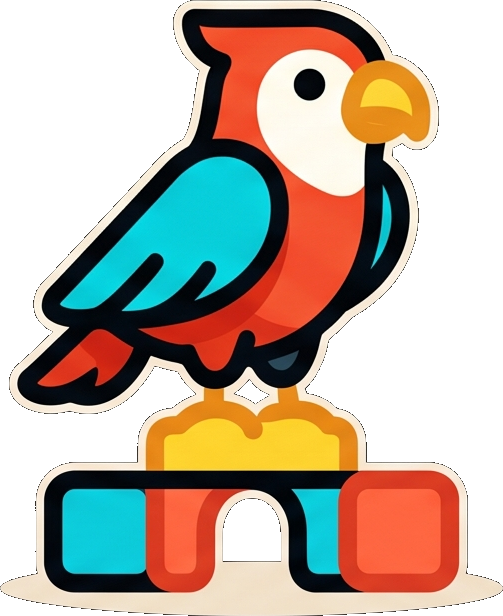
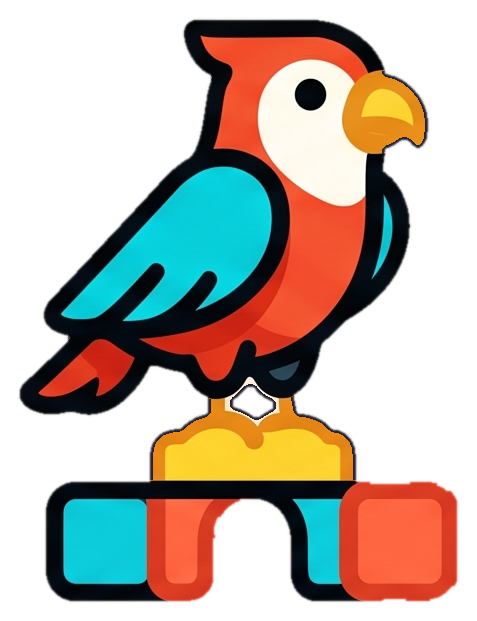
Studio logosu temizlendi: bej etiket cercevesi, pismis golge ve sert kenar kaldirildi; img boyutlari 477x621
Kaynak assets/hawk-mason-logo-transparent.png'den papagan kesildi, dis kontur disi krem/ten pikseller
silindi, kenar yumusatildi. Ayni dosya adlari (mark.png/webp) kullanildigi icin tum sayfalar ve
nav/footer markasi birlikte guncellendi; HENUZ DEPLOY EDILMEDI.

diff --git a/index.html b/index.html
@@ -73,7 +73,7 @@
 
     <header class="nav" data-nav>
       <a class="brand" href="/" aria-label="Hawk & Mason Studios home">
-        <img class="brand-mark" src="assets/hawk-mason-mark.webp" alt="" width="503" height="616" />
+        <img class="brand-mark" src="assets/hawk-mason-mark.webp" alt="" width="477" height="621" />
         <span class="brand-name">Hawk <span class="amp">&amp;</span> Mason<span class="brand-suffix">Studios</span></span>
       </a>
       <nav class="nav-links" aria-label="Primary">
@@ -112,7 +112,7 @@
           </ul>
         </div>
         <div class="hero-art" aria-hidden="true">
-          <img class="hero-mark" src="assets/hawk-mason-mark.webp" alt="" width="503" height="616" fetchpriority="high" />
+          <img class="hero-mark" src="assets/hawk-mason-mark.webp" alt="" width="477" height="621" fetchpriority="high" />
         </div>
       </section>
 
@@ -225,7 +225,7 @@
 
     <footer class="foot" id="contact">
       <div class="foot-brand">
-        <img class="brand-mark" src="assets/hawk-mason-mark.webp" alt="" width="503" height="616" loading="lazy" />
+        <img class="brand-mark" src="assets/hawk-mason-mark.webp" alt="" width="477" height="621" loading="lazy" />
         <span class="brand-name">Hawk <span class="amp">&amp;</span> Mason Studios</span>
       </div>
       <nav class="foot-links" aria-label="Footer">

diff --git a/crewops-api.html b/crewops-api.html
@@ -111,7 +111,7 @@
     <header class="nav nav--crew" data-nav>
       <a class="brand" href="/crewops/airlines" data-back data-veil="#070c15" aria-label="Back to the Crewops Aviation Platform">
         <span class="back-arrow" aria-hidden="true">←</span>
-        <img class="brand-mark" src="/assets/hawk-mason-mark.webp" alt="" width="503" height="616" />
+        <img class="brand-mark" src="/assets/hawk-mason-mark.webp" alt="" width="477" height="621" />
         <span class="brand-name">Hawk <span class="amp">&amp;</span> Mason</span>
       </a>
       <div class="nav-store">
@@ -635,7 +635,7 @@ def crewops_hook():
 
     <footer class="foot" style="border-top: 1px solid var(--w-line);">
       <div class="foot-brand">
-        <img class="brand-mark" src="/assets/hawk-mason-mark.webp" alt="" width="503" height="616" />
+        <img class="brand-mark" src="/assets/hawk-mason-mark.webp" alt="" width="477" height="621" />
         <span class="brand-name">Hawk <span class="amp">&amp;</span> Mason Studios</span>
       </div>
       <nav class="foot-links" aria-label="Footer">

diff --git a/crewops-academy.html b/crewops-academy.html
@@ -140,7 +140,7 @@
     <header class="nav nav--crew" data-nav>
       <a class="brand" href="/crewops/airlines" data-back data-veil="#070c15" aria-label="Back to the Crewops Aviation Platform">
         <span class="back-arrow" aria-hidden="true">←</span>
-        <img class="brand-mark" src="/assets/hawk-mason-mark.webp" alt="" width="503" height="616" />
+        <img class="brand-mark" src="/assets/hawk-mason-mark.webp" alt="" width="477" height="621" />
         <span class="brand-name">Hawk <span class="amp">&amp;</span> Mason</span>
       </a>
       <div class="nav-store">
@@ -252,7 +252,7 @@
 
     <footer class="foot" style="border-top: 1px solid var(--w-line);">
       <div class="foot-brand">
-        <img class="brand-mark" src="/assets/hawk-mason-mark.webp" alt="" width="503" height="616" />
+        <img class="brand-mark" src="/assets/hawk-mason-mark.webp" alt="" width="477" height="621" />
         <span class="brand-name">Hawk <span class="amp">&amp;</span> Mason Studios</span>
       </div>
       <nav class="foot-links" aria-label="Footer">

diff --git a/crewops-faq.html b/crewops-faq.html
@@ -321,7 +321,7 @@
     <header class="nav nav--crew" data-nav>
       <a class="brand" href="/crewops/airlines" data-back data-veil="#070c15" aria-label="Back to the Crewops Aviation Platform">
         <span class="back-arrow" aria-hidden="true">←</span>
-        <img class="brand-mark" src="/assets/hawk-mason-mark.webp" alt="" width="503" height="616" />
+        <img class="brand-mark" src="/assets/hawk-mason-mark.webp" alt="" width="477" height="621" />
         <span class="brand-name">Hawk <span class="amp">&amp;</span> Mason</span>
       </a>
       <div class="nav-store">
@@ -490,7 +490,7 @@
 
     <footer class="foot" style="border-top: 1px solid var(--w-line);">
       <div class="foot-brand">
-        <img class="brand-mark" src="/assets/hawk-mason-mark.webp" alt="" width="503" height="616" />
+        <img class="brand-mark" src="/assets/hawk-mason-mark.webp" alt="" width="477" height="621" />
         <span class="brand-name">Hawk <span class="amp">&amp;</span> Mason Studios</span>
       </div>
       <nav class="foot-links" aria-label="Footer">

diff --git a/crewops-insight-product.html b/crewops-insight-product.html
@@ -140,7 +140,7 @@
     <header class="nav nav--crew" data-nav>
       <a class="brand" href="/crewops/airlines" data-back data-veil="#070c15" aria-label="Back to the Crewops Aviation Platform">
         <span class="back-arrow" aria-hidden="true">←</span>
-        <img class="brand-mark" src="/assets/hawk-mason-mark.webp" alt="" width="503" height="616" />
+        <img class="brand-mark" src="/assets/hawk-mason-mark.webp" alt="" width="477" height="621" />
         <span class="brand-name">Hawk <span class="amp">&amp;</span> Mason</span>
       </a>
       <div class="nav-store">
@@ -259,7 +259,7 @@
 
     <footer class="foot" style="border-top: 1px solid var(--w-line);">
       <div class="foot-brand">
-        <img class="brand-mark" src="/assets/hawk-mason-mark.webp" alt="" width="503" height="616" />
+        <img class="brand-mark" src="/assets/hawk-mason-mark.webp" alt="" width="477" height="621" />
         <span class="brand-name">Hawk <span class="amp">&amp;</span> Mason Studios</span>
       </div>
       <nav class="foot-links" aria-label="Footer">

diff --git a/crewops-library.html b/crewops-library.html
@@ -140,7 +140,7 @@
     <header class="nav nav--crew" data-nav>
       <a class="brand" href="/crewops/airlines" data-back data-veil="#070c15" aria-label="Back to the Crewops Aviation Platform">
         <span class="back-arrow" aria-hidden="true">←</span>
-        <img class="brand-mark" src="/assets/hawk-mason-mark.webp" alt="" width="503" height="616" />
+        <img class="brand-mark" src="/assets/hawk-mason-mark.webp" alt="" width="477" height="621" />
         <span class="brand-name">Hawk <span class="amp">&amp;</span> Mason</span>
       </a>
       <div class="nav-store">
@@ -253,7 +253,7 @@
 
     <footer class="foot" style="border-top: 1px solid var(--w-line);">
       <div class="foot-brand">
-        <img class="brand-mark" src="/assets/hawk-mason-mark.webp" alt="" width="503" height="616" />
+        <img class="brand-mark" src="/assets/hawk-mason-mark.webp" alt="" width="477" height="621" />
         <span class="brand-name">Hawk <span class="amp">&amp;</span> Mason Studios</span>
       </div>
       <nav class="foot-links" aria-label="Footer">

diff --git a/crewops-safety.html b/crewops-safety.html
@@ -140,7 +140,7 @@
     <header class="nav nav--crew" data-nav>
       <a class="brand" href="/crewops/airlines" data-back data-veil="#070c15" aria-label="Back to the Crewops Aviation Platform">
         <span class="back-arrow" aria-hidden="true">←</span>
-        <img class="brand-mark" src="/assets/hawk-mason-mark.webp" alt="" width="503" height="616" />
+        <img class="brand-mark" src="/assets/hawk-mason-mark.webp" alt="" width="477" height="621" />
         <span class="brand-name">Hawk <span class="amp">&amp;</span> Mason</span>
       </a>
       <div class="nav-store">
@@ -253,7 +253,7 @@
 
     <footer class="foot" style="border-top: 1px solid var(--w-line);">
       <div class="foot-brand">
-        <img class="brand-mark" src="/assets/hawk-mason-mark.webp" alt="" width="503" height="616" />
+        <img class="brand-mark" src="/assets/hawk-mason-mark.webp" alt="" width="477" height="621" />
         <span class="brand-name">Hawk <span class="amp">&amp;</span> Mason Studios</span>
       </div>
       <nav class="foot-links" aria-label="Footer">

diff --git a/crewops.html b/crewops.html
@@ -99,7 +99,7 @@
     <header class="nav nav--crew" data-nav>
       <a class="brand" href="/" data-back data-veil="#070c15" aria-label="Back to Hawk &amp; Mason Studios">
         <span class="back-arrow" aria-hidden="true">←</span>
-        <img class="brand-mark" src="assets/hawk-mason-mark.webp" alt="" width="503" height="616" />
+        <img class="brand-mark" src="assets/hawk-mason-mark.webp" alt="" width="477" height="621" />
         <span class="brand-name">Hawk <span class="amp">&amp;</span> Mason</span>
       </a>
       <div class="nav-store">
@@ -299,7 +299,7 @@
 
     <footer class="foot" id="contact" style="border-top: 1px solid var(--w-line);">
       <div class="foot-brand">
-        <img class="brand-mark" src="assets/hawk-mason-mark.webp" alt="" width="503" height="616" />
+        <img class="brand-mark" src="assets/hawk-mason-mark.webp" alt="" width="477" height="621" />
         <span class="brand-name">Hawk <span class="amp">&amp;</span> Mason Studios</span>
       </div>
       <nav class="foot-links" aria-label="Footer">

diff --git a/404.html b/404.html
@@ -14,7 +14,7 @@
   <body class="umbrella legal" data-page="legal">
     <header class="nav" data-nav>
       <a class="brand" href="/" aria-label="Hawk &amp; Mason Studios home">
-        <img class="brand-mark" src="/assets/hawk-mason-mark.webp" alt="" width="503" height="616" />
+        <img class="brand-mark" src="/assets/hawk-mason-mark.webp" alt="" width="477" height="621" />
         <span class="brand-name">Hawk <span class="amp">&amp;</span> Mason<span class="brand-suffix">Studios</span></span>
       </a>
       <nav class="nav-links" aria-label="Primary">
@@ -39,7 +39,7 @@
 
     <footer class="foot" id="contact">
       <div class="foot-brand">
-        <img class="brand-mark" src="/assets/hawk-mason-mark.webp" alt="" width="503" height="616" loading="lazy" />
+        <img class="brand-mark" src="/assets/hawk-mason-mark.webp" alt="" width="477" height="621" loading="lazy" />
         <span class="brand-name">Hawk <span class="amp">&amp;</span> Mason Studios</span>
       </div>
       <nav class="foot-links" aria-label="Footer">

diff --git a/crewops-airlines.html b/crewops-airlines.html
@@ -129,7 +129,7 @@
     <header class="nav nav--crew" data-nav>
       <a class="brand" href="/crewops" data-back data-veil="#070c15" aria-label="Back to Crewops">
         <span class="back-arrow" aria-hidden="true">←</span>
-        <img class="brand-mark" src="/assets/hawk-mason-mark.webp" alt="" width="503" height="616" />
+        <img class="brand-mark" src="/assets/hawk-mason-mark.webp" alt="" width="477" height="621" />
         <span class="brand-name">Hawk <span class="amp">&amp;</span> Mason</span>
       </a>
       <div class="nav-store">
@@ -289,7 +289,7 @@
 
     <footer class="foot" style="border-top: 1px solid var(--w-line);">
       <div class="foot-brand">
-        <img class="brand-mark" src="/assets/hawk-mason-mark.webp" alt="" width="503" height="616" />
+        <img class="brand-mark" src="/assets/hawk-mason-mark.webp" alt="" width="477" height="621" />
         <span class="brand-name">Hawk <span class="amp">&amp;</span> Mason Studios</span>
       </div>
       <nav class="foot-links" aria-label="Footer">

diff --git a/pondr/tr.html b/pondr/tr.html
@@ -92,7 +92,7 @@
     <header class="nav nav--pondr" data-nav>
       <a class="brand" href="/" data-back data-veil="#14161B" aria-label="Hawk &amp; Mason Studios ana sayfasına dön">
         <span class="back-arrow" aria-hidden="true">←</span>
-        <img class="brand-mark" src="../assets/hawk-mason-mark.webp" alt="" width="503" height="616" />
+        <img class="brand-mark" src="../assets/hawk-mason-mark.webp" alt="" width="477" height="621" />
         <span class="brand-name">Hawk <span class="amp">&amp;</span> Mason</span>
       </a>
       <div class="nav-store">
@@ -325,7 +325,7 @@
 
     <footer class="foot">
       <div class="foot-brand">
-        <img class="brand-mark" src="../assets/hawk-mason-mark.webp" alt="" width="503" height="616" />
+        <img class="brand-mark" src="../assets/hawk-mason-mark.webp" alt="" width="477" height="621" />
         <span class="brand-name">Hawk <span class="amp">&amp;</span> Mason Studios</span>
       </div>
       <nav class="foot-links" aria-label="Alt bağlantılar">

diff --git a/pondr/privacy.html b/pondr/privacy.html
@@ -15,7 +15,7 @@
   <body class="umbrella legal" data-page="legal">
     <header class="nav" data-nav>
       <a class="brand" href="/" aria-label="Hawk &amp; Mason Studios home">
-        <img class="brand-mark" src="../assets/hawk-mason-mark.webp" alt="" width="503" height="616" />
+        <img class="brand-mark" src="../assets/hawk-mason-mark.webp" alt="" width="477" height="621" />
         <span class="brand-name">Hawk <span class="amp">&amp;</span> Mason<span class="brand-suffix">Studios</span></span>
       </a>
       <nav class="nav-links" aria-label="Primary">
@@ -102,7 +102,7 @@
 
     <footer class="foot">
       <div class="foot-brand">
-        <img class="brand-mark" src="../assets/hawk-mason-mark.webp" alt="" width="503" height="616" />
+        <img class="brand-mark" src="../assets/hawk-mason-mark.webp" alt="" width="477" height="621" />
         <span class="brand-name">Hawk <span class="amp">&amp;</span> Mason Studios</span>
       </div>
       <nav class="foot-links" aria-label="Footer">
